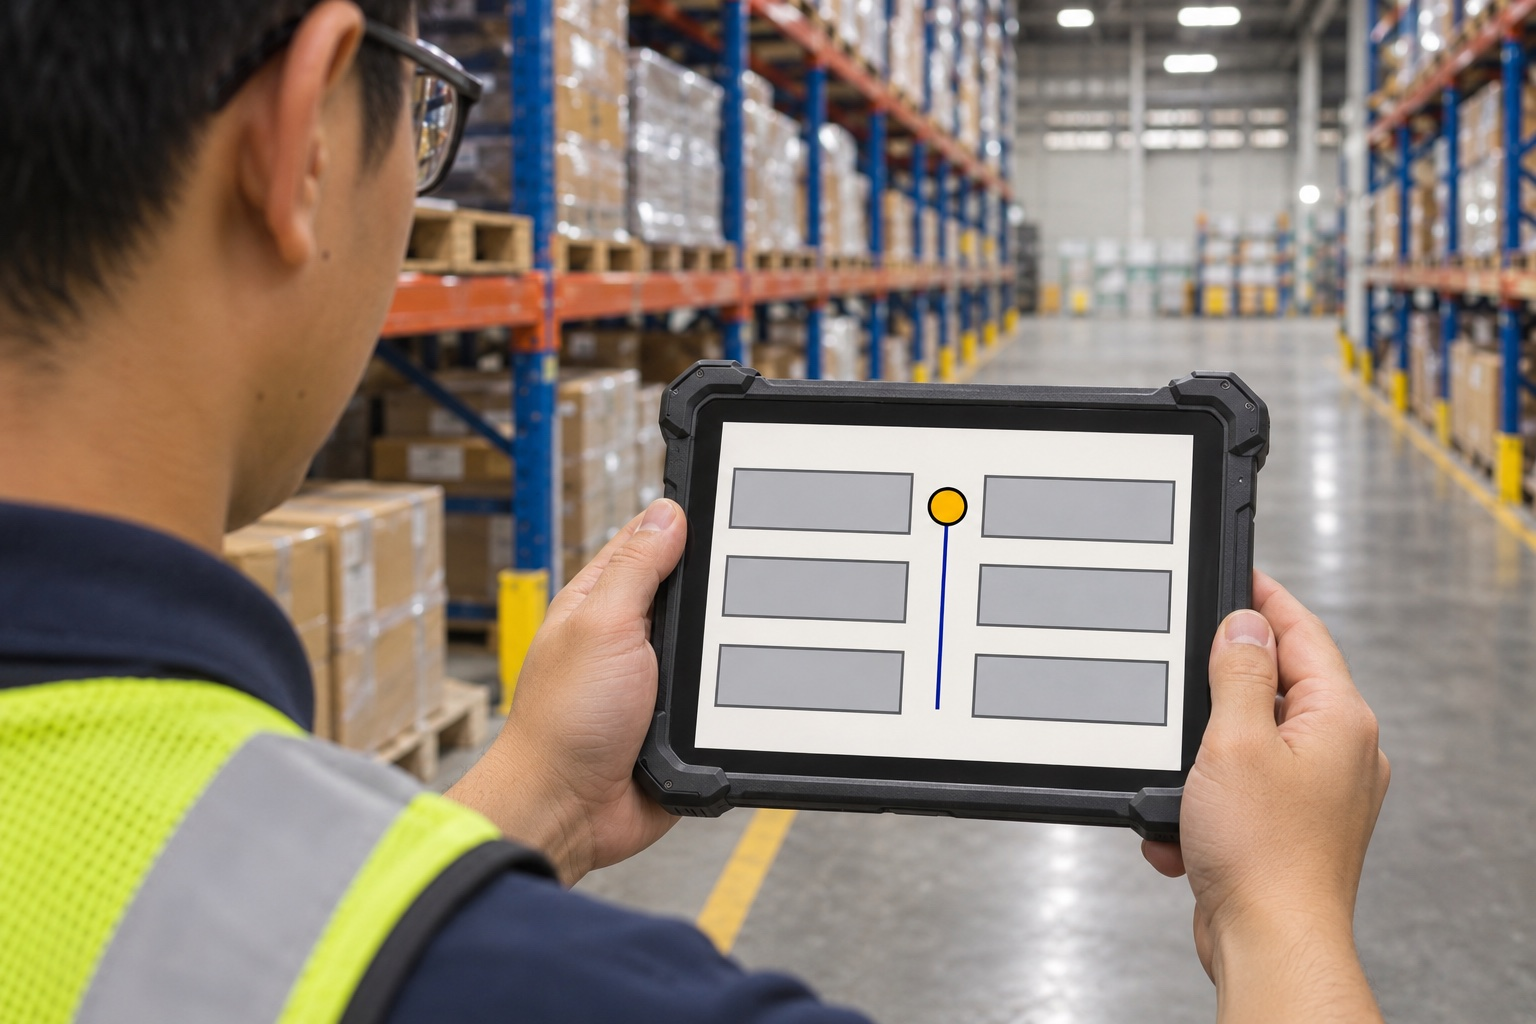
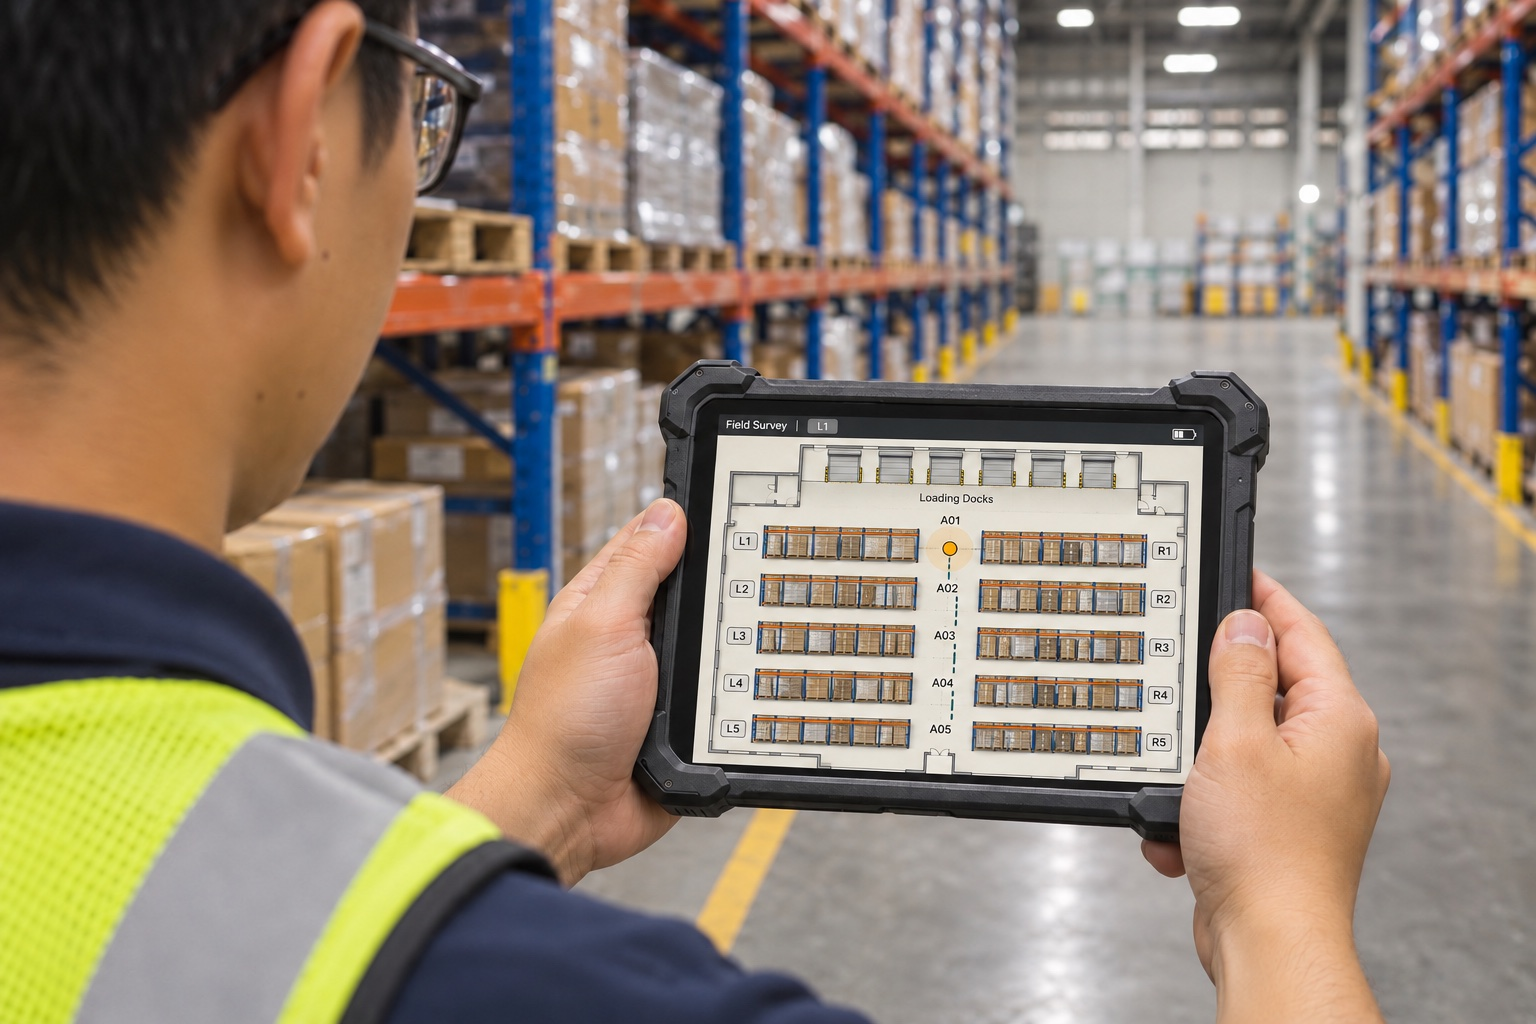
Clarify INTAG deployment and warehouse pilot visuals

Changed region(s): [[0.4375, 0.4062, 0.7812, 0.7812]]

diff --git a/website-v2/src/content/intag-deployment.ts b/website-v2/src/content/intag-deployment.ts
@@ -11,11 +11,13 @@ export interface IntagDeploymentCopy {
     title: string;
     label: string;
     baseline: string;
+    recommended: string;
     racks: string;
     aisle: string;
     loading: string;
     intag: string;
     ble: string;
+    work: Record<'ble' | 'intag', readonly [string, string, string]>;
     note: string;
   };
   walkTest: { alt: string; caption: string };
@@ -35,16 +37,21 @@ export const intagDeploymentCopy: Record<Locale, IntagDeploymentCopy> = {
       title: 'One warehouse, two deployment approaches',
       label: 'Deployment illustration',
       baseline: 'Comparison baseline',
+      recommended: 'Recommended by NNPC',
       racks: 'Storage racks',
       aisle: 'Aisles',
       loading: 'Loading area',
       intag: 'A technician uses a handheld device to survey the operating route.',
       ble: 'Square markers show example locations for new fixed receivers.',
+      work: {
+        ble: ['Plan receiver locations and mount new equipment', 'Arrange power and connectivity as needed', 'Maintain the added receivers and connections'],
+        intag: ['Check site conditions and walk the operating route', 'Validate positioning on that route', 'Recheck coverage when the site changes'],
+      },
       note: 'Hardware requirements and positioning performance are subject to site assessment and validation.',
     },
     walkTest: {
-      alt: 'Over the shoulder of a warehouse technician holding a device that shows a yellow survey point on a simple floor plan.',
-      caption: 'Walk-test illustration. The yellow dot marks the current survey point along the signal collection route.',
+      alt: 'A warehouse technician holds a tablet showing rack rows, a survey route and a yellow survey point.',
+      caption: 'Site walk-test illustration. The tablet shows an example interface, not an INTAG product screenshot. The yellow dot marks the survey point.',
     },
     items: [
       ['Installation', 'Suitable sites may need less fixed equipment and installation work.', 'Survey the site and check device compatibility. Where conditions allow, deployment can proceed without new dedicated positioning equipment.', 'Plan receiver locations, mounting and any power or network connections the design requires.'],
@@ -67,16 +74,21 @@ export const intagDeploymentCopy: Record<Locale, IntagDeploymentCopy> = {
       title: '同一座倉庫，兩種部署方式',
       label: '部署方式示意',
       baseline: '比較基準',
+      recommended: 'NNPC 推薦',
       racks: '貨架',
       aisle: '走道',
       loading: '裝卸區',
       intag: '現場人員使用手持裝置，沿作業路線走測。',
       ble: '方形標記表示新增固定 BLE 接收器的示意點位。',
+      work: {
+        ble: ['規劃點位、安裝固定接收器', '依配置安排供電與連線', '維護新增的接收器與連線'],
+        intag: ['確認場域條件，沿實際路線走測', '驗證作業路線的定位表現', '場域變更時複核覆蓋範圍'],
+      },
       note: '符合現場訊號及裝置條件時，可免增設專用定位設備。實際配置與定位表現依現場驗證確認。',
     },
     walkTest: {
-      alt: '從倉庫技術人員肩後看手持裝置，螢幕上的簡化平面圖有一個黃色走測點。',
-      caption: '走測流程示意。黃色圓點標出目前的訊號採集位置。',
+      alt: '倉庫人員手持平板，螢幕顯示貨架、走測路線及黃色走測點。',
+      caption: '現場走測示意。平板為介面示例，非 INTAG 實際產品畫面；黃點標示走測位置。',
     },
     items: [
       ['建置', '符合條件時，可減少新增固定設備及相關安裝工作。', '先走測並確認裝置相容性，條件合適時可免增設專用定位設備。', '規劃固定接收器的點位和安裝，依配置確認供電及網路需求。'],
@@ -99,16 +111,21 @@ export const intagDeploymentCopy: Record<Locale, IntagDeploymentCopy> = {
       title: 'คลังสินค้าเดียวกัน การติดตั้งสองรูปแบบ',
       label: 'ภาพประกอบรูปแบบการติดตั้ง',
       baseline: 'รูปแบบอ้างอิงสำหรับการเปรียบเทียบ',
+      recommended: 'แนวทางที่ NNPC แนะนำ',
       racks: 'ชั้นวางสินค้า',
       aisle: 'ทางเดิน',
       loading: 'พื้นที่ขนถ่ายสินค้า',
       intag: 'เจ้าหน้าที่ใช้อุปกรณ์พกพาเดินสำรวจตามเส้นทางทำงาน',
       ble: 'สัญลักษณ์สี่เหลี่ยมแสดงตัวอย่างจุดติดตั้งเครื่องรับ BLE เพิ่มเติม',
+      work: {
+        ble: ['กำหนดจุดและติดตั้งเครื่องรับประจำจุด', 'จัดเตรียมไฟเลี้ยงและการเชื่อมต่อตามรูปแบบที่ใช้', 'ดูแลเครื่องรับและการเชื่อมต่อที่เพิ่มเข้ามา'],
+        intag: ['ตรวจสอบสภาพพื้นที่และเดินสำรวจตามเส้นทางทำงาน', 'ทดสอบการระบุตำแหน่งบนเส้นทางนั้น', 'ตรวจสอบพื้นที่ครอบคลุมอีกครั้งเมื่อหน้างานเปลี่ยน'],
+      },
       note: 'ทั้งนี้ขึ้นอยู่กับสภาพสัญญาณและอุปกรณ์ในพื้นที่ โดยต้องประเมินและทดสอบก่อนใช้งานจริง',
     },
     walkTest: {
-      alt: 'มุมมองข้ามไหล่ช่างในคลังสินค้าเห็นจุดสำรวจสีเหลืองบนผังพื้นที่ในอุปกรณ์พกพา',
-      caption: 'ภาพประกอบการเดินสำรวจ จุดสีเหลืองแสดงจุดสำรวจปัจจุบันบนเส้นทางเก็บสัญญาณ',
+      alt: 'เจ้าหน้าที่คลังสินค้าถือแท็บเล็ตที่แสดงชั้นวาง เส้นทางเดินสำรวจ และจุดสำรวจสีเหลือง',
+      caption: 'ภาพประกอบการเดินสำรวจหน้างาน หน้าจอแท็บเล็ตเป็นตัวอย่างประกอบ ไม่ใช่หน้าจอจริงของ INTAG จุดสีเหลืองแสดงตำแหน่งที่กำลังสำรวจ',
     },
     items: [
       ['การติดตั้ง', 'เมื่อสภาพพื้นที่เหมาะสม อาจลดจำนวนอุปกรณ์ประจำจุดและงานติดตั้งได้', 'เดินสำรวจและตรวจสอบความเข้ากันได้ของอุปกรณ์ หากสภาพพื้นที่เหมาะสม อาจใช้งานได้โดยไม่ต้องติดตั้งอุปกรณ์ระบุตำแหน่งเฉพาะทางเพิ่ม', 'วางแผนจุดติดตั้งเครื่องรับ รวมถึงไฟเลี้ยงและการเชื่อมต่อเครือข่ายตามรูปแบบที่ใช้'],

diff --git a/website-v2/src/content/solution-detail.ts b/website-v2/src/content/solution-detail.ts
@@ -95,7 +95,7 @@ export const solutionDetail: Record<Locale, Record<SolutionId, SolutionDetail>> 
       intro: 'Where existing signals and compatible devices meet the site’s requirements, INTAG can support asset tracking and dispatch without adding dedicated positioning equipment. Verify coverage and positioning performance along the routes your team uses.',
       applications: {
         title: 'Applications to evaluate in a pilot',
-        text: 'Define the modules, rules, user roles and acceptance checks in the project scope.',
+        text: 'These diagrams illustrate pilot scenarios. Define the modules, rules, user roles and acceptance checks in the project scope.',
         items: [
           ['Dynamic Dispatch', 'Example: A loading request arrives. The supervisor checks the forklift’s last reported zone and update time, confirms availability with the operator, assigns the move and follows up at the loading point. Agree how the team records assignments and completion during the pilot.'],
           ['GEO Fencing', 'Define a zone on the floor plan and test when an entry, exit or dwell event should be recorded. Agree who receives the notification and how to handle uncertain positions near a boundary.'],
@@ -212,7 +212,7 @@ export const solutionDetail: Record<Locale, Record<SolutionId, SolutionDetail>> 
       intro: '現場訊號與終端條件符合需求時，INTAG 可沿用既有訊號，免增設專用定位設備，支援資產追蹤與派工輔助。沿實際作業路線確認訊號覆蓋與定位表現。',
       applications: {
         title: '試點可評估的應用模組',
-        text: '依專案約定模組、作業規則、使用角色與驗收方式。',
+        text: '圖解為試點情境示意。模組、作業規則、使用角色與驗收方式依專案約定。',
         items: [
           ['動態派工（Dynamic Dispatch）', '情境示意：收到裝卸需求後，主管先查堆高機最後回報的區域與時間，向操作員確認車輛是否可調度，再指派搬運並追蹤裝卸點的進度。試點時約定如何記錄指派及完工。'],
           ['電子圍籬（GEO Fencing）', '在平面圖上劃定區域，測試何時應記錄進入、離開或停留事件。確認通知對象，以及位置在區界附近不確定時的處理方式。'],
@@ -329,7 +329,7 @@ export const solutionDetail: Record<Locale, Record<SolutionId, SolutionDetail>> 
       intro: 'หากสัญญาณเดิมและอุปกรณ์ที่รองรับตรงตามความต้องการของพื้นที่ INTAG สามารถติดตามทรัพย์สินและช่วยมอบหมายงานได้โดยไม่ต้องติดตั้งอุปกรณ์ระบุตำแหน่งเฉพาะทางเพิ่ม ตรวจสอบพื้นที่ครอบคลุมและผลการระบุตำแหน่งตามเส้นทางทำงานจริง',
       applications: {
         title: 'โมดูลที่ประเมินได้ในโครงการนำร่อง',
-        text: 'ตกลงโมดูล กติกาการทำงาน บทบาทผู้ใช้ และเกณฑ์ตรวจรับตามขอบเขตโครงการ',
+        text: 'ภาพแสดงตัวอย่างการใช้งานในโครงการนำร่อง ตกลงโมดูล กติกาการทำงาน บทบาทผู้ใช้ และเกณฑ์ตรวจรับตามขอบเขตโครงการ',
         items: [
           ['การจัดงานตามสถานการณ์ (Dynamic Dispatch)', 'ตัวอย่าง: เมื่อมีงานขนถ่าย หัวหน้างานดูโซนและเวลาที่รถยกรายงานล่าสุด สอบถามผู้ขับว่ารถพร้อมใช้งานหรือไม่ แล้วจึงมอบหมายงานและติดตามความคืบหน้าที่จุดขนถ่าย ในโครงการนำร่องให้ตกลงวิธีบันทึกการมอบหมายและการเสร็จงาน'],
           ['รั้วเสมือน (GEO Fencing)', 'กำหนดโซนบนแผนผังและทดสอบว่าควรบันทึกเหตุการณ์เข้า ออก หรืออยู่ในโซนนานเมื่อใด ระบุผู้รับแจ้งเตือนและวิธีจัดการเมื่อข้อมูลตำแหน่งใกล้ขอบโซนไม่ชัดเจน'],

diff --git a/website-v2/docs/CHANGELOG.md b/website-v2/docs/CHANGELOG.md
@@ -1,4 +1,7 @@
 # Change record
+## INTAG — comparison and pilot visuals
+- Added side-by-side deployment work lists, refreshed the illustrative tablet screen and warehouse map, and illustrated the three pilot modules. Retained the map modes, example timestamps and event rules.
+
 ## INTAG — deployment and walk-test visuals
 - Added a localized deployment diagram, expandable comparison details, and an illustrative walk-test photo with a visible survey point.
 
